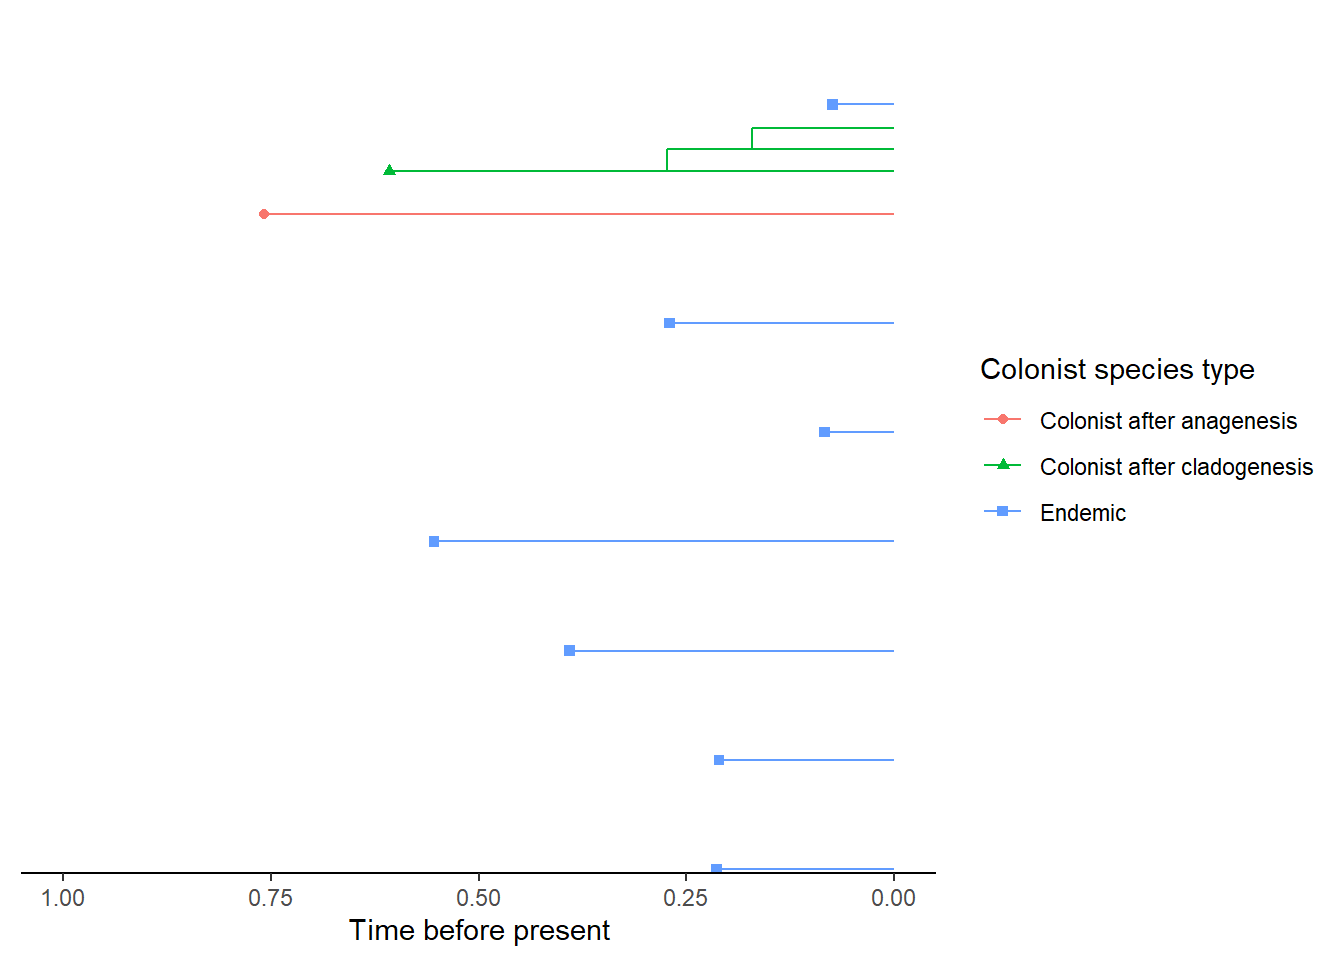
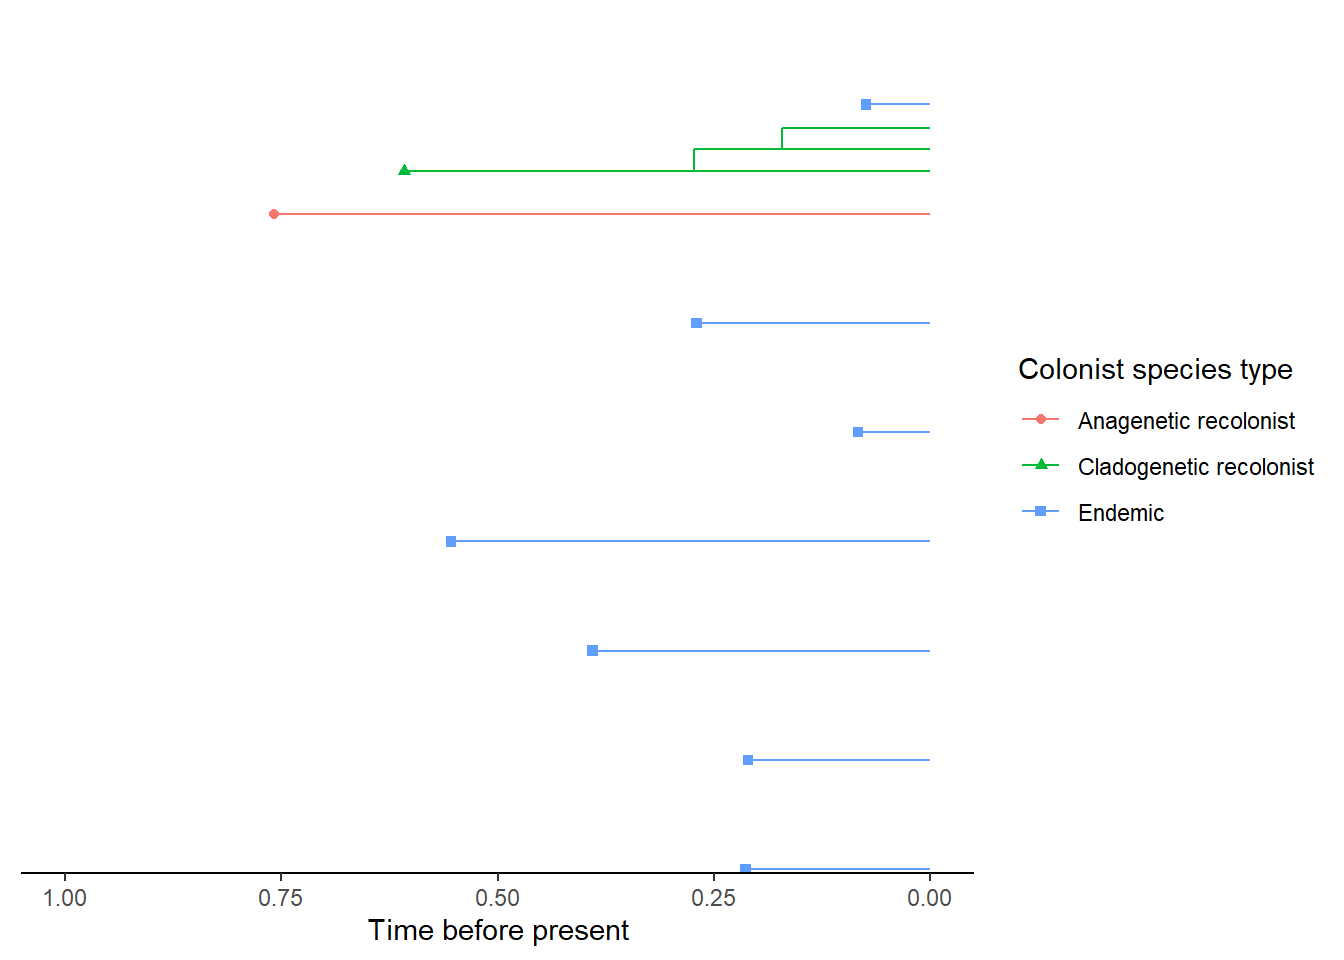
update book with new fig legend

diff --git a/docs/data-standards.html b/docs/data-standards.html
@@ -206,7 +206,7 @@ using <code><a href="https://rdrr.io/pkg/DAISIEmainland/man/create_test_island_t
 <footer class="bg-primary text-light mt-5"><div class="container"><div class="row">
 
   <div class="col-12 col-md-6 mt-3">
-    <p>"<strong>DAISIEmainland: Simulating and analysing macroevolution on islands with a dynamic mainland</strong>" was written by Joshua W. Lambert. It was last built on 2022-04-28.</p>
+    <p>"<strong>DAISIEmainland: Simulating and analysing macroevolution on islands with a dynamic mainland</strong>" was written by Joshua W. Lambert. It was last built on 2022-04-29.</p>
   </div>
 
   <div class="col-12 col-md-6 mt-3">

diff --git a/docs/inference-performance.html b/docs/inference-performance.html
@@ -510,7 +510,7 @@ to carry out the full inference performance analysis can be found <a href="https
 <footer class="bg-primary text-light mt-5"><div class="container"><div class="row">
 
   <div class="col-12 col-md-6 mt-3">
-    <p>"<strong>DAISIEmainland: Simulating and analysing macroevolution on islands with a dynamic mainland</strong>" was written by Joshua W. Lambert. It was last built on 2022-04-28.</p>
+    <p>"<strong>DAISIEmainland: Simulating and analysing macroevolution on islands with a dynamic mainland</strong>" was written by Joshua W. Lambert. It was last built on 2022-04-29.</p>
   </div>
 
   <div class="col-12 col-md-6 mt-3">

diff --git a/docs/references.html b/docs/references.html
@@ -115,7 +115,7 @@ Etienne, Rampal S., Luis M. Valente, Albert B. Phillimore, Bart Haegeman, Joshua
 <footer class="bg-primary text-light mt-5"><div class="container"><div class="row">
 
   <div class="col-12 col-md-6 mt-3">
-    <p>"<strong>DAISIEmainland: Simulating and analysing macroevolution on islands with a dynamic mainland</strong>" was written by Joshua W. Lambert. It was last built on 2022-04-28.</p>
+    <p>"<strong>DAISIEmainland: Simulating and analysing macroevolution on islands with a dynamic mainland</strong>" was written by Joshua W. Lambert. It was last built on 2022-04-29.</p>
   </div>
 
   <div class="col-12 col-md-6 mt-3">

diff --git a/docs/summary-error-metrics-visualisation.html b/docs/summary-error-metrics-visualisation.html
@@ -245,7 +245,7 @@ and <a href="https://raw.githubusercontent.com/joshwlambert/DAISIEmainland/main/
 <footer class="bg-primary text-light mt-5"><div class="container"><div class="row">
 
   <div class="col-12 col-md-6 mt-3">
-    <p>"<strong>DAISIEmainland: Simulating and analysing macroevolution on islands with a dynamic mainland</strong>" was written by Joshua W. Lambert. It was last built on 2022-04-28.</p>
+    <p>"<strong>DAISIEmainland: Simulating and analysing macroevolution on islands with a dynamic mainland</strong>" was written by Joshua W. Lambert. It was last built on 2022-04-29.</p>
   </div>
 
   <div class="col-12 col-md-6 mt-3">

diff --git a/docs/simulation-algorithm.html b/docs/simulation-algorithm.html
@@ -361,7 +361,7 @@ estimation when the empiricist does not have access to all the data.</p>
 <footer class="bg-primary text-light mt-5"><div class="container"><div class="row">
 
   <div class="col-12 col-md-6 mt-3">
-    <p>"<strong>DAISIEmainland: Simulating and analysing macroevolution on islands with a dynamic mainland</strong>" was written by Joshua W. Lambert. It was last built on 2022-04-28.</p>
+    <p>"<strong>DAISIEmainland: Simulating and analysing macroevolution on islands with a dynamic mainland</strong>" was written by Joshua W. Lambert. It was last built on 2022-04-29.</p>
   </div>
 
   <div class="col-12 col-md-6 mt-3">

diff --git a/docs/404.html b/docs/404.html
@@ -99,7 +99,7 @@ the table of contents to find the page you are looking for.</p>
 <footer class="bg-primary text-light mt-5"><div class="container"><div class="row">
 
   <div class="col-12 col-md-6 mt-3">
-    <p>"<strong>DAISIEmainland: Simulating and analysing macroevolution on islands with a dynamic mainland</strong>" was written by Joshua W. Lambert. It was last built on 2022-04-28.</p>
+    <p>"<strong>DAISIEmainland: Simulating and analysing macroevolution on islands with a dynamic mainland</strong>" was written by Joshua W. Lambert. It was last built on 2022-04-29.</p>
   </div>
 
   <div class="col-12 col-md-6 mt-3">

diff --git a/docs/index.html b/docs/index.html
@@ -148,7 +148,7 @@ of the package this section can be ignored.</p>
 <footer class="bg-primary text-light mt-5"><div class="container"><div class="row">
 
   <div class="col-12 col-md-6 mt-3">
-    <p>"<strong>DAISIEmainland: Simulating and analysing macroevolution on islands with a dynamic mainland</strong>" was written by Joshua W. Lambert. It was last built on 2022-04-28.</p>
+    <p>"<strong>DAISIEmainland: Simulating and analysing macroevolution on islands with a dynamic mainland</strong>" was written by Joshua W. Lambert. It was last built on 2022-04-29.</p>
   </div>
 
   <div class="col-12 col-md-6 mt-3">

diff --git a/docs/installation.html b/docs/installation.html
@@ -129,7 +129,7 @@ versions of R will not be patched.</p>
 <footer class="bg-primary text-light mt-5"><div class="container"><div class="row">
 
   <div class="col-12 col-md-6 mt-3">
-    <p>"<strong>DAISIEmainland: Simulating and analysing macroevolution on islands with a dynamic mainland</strong>" was written by Joshua W. Lambert. It was last built on 2022-04-28.</p>
+    <p>"<strong>DAISIEmainland: Simulating and analysing macroevolution on islands with a dynamic mainland</strong>" was written by Joshua W. Lambert. It was last built on 2022-04-29.</p>
   </div>
 
   <div class="col-12 col-md-6 mt-3">

diff --git a/docs/simulation-data-visualisation.html b/docs/simulation-data-visualisation.html
@@ -297,7 +297,7 @@ the colonisation time.</p>
 <footer class="bg-primary text-light mt-5"><div class="container"><div class="row">
 
   <div class="col-12 col-md-6 mt-3">
-    <p>"<strong>DAISIEmainland: Simulating and analysing macroevolution on islands with a dynamic mainland</strong>" was written by Joshua W. Lambert. It was last built on 2022-04-28.</p>
+    <p>"<strong>DAISIEmainland: Simulating and analysing macroevolution on islands with a dynamic mainland</strong>" was written by Joshua W. Lambert. It was last built on 2022-04-29.</p>
   </div>
 
   <div class="col-12 col-md-6 mt-3">
